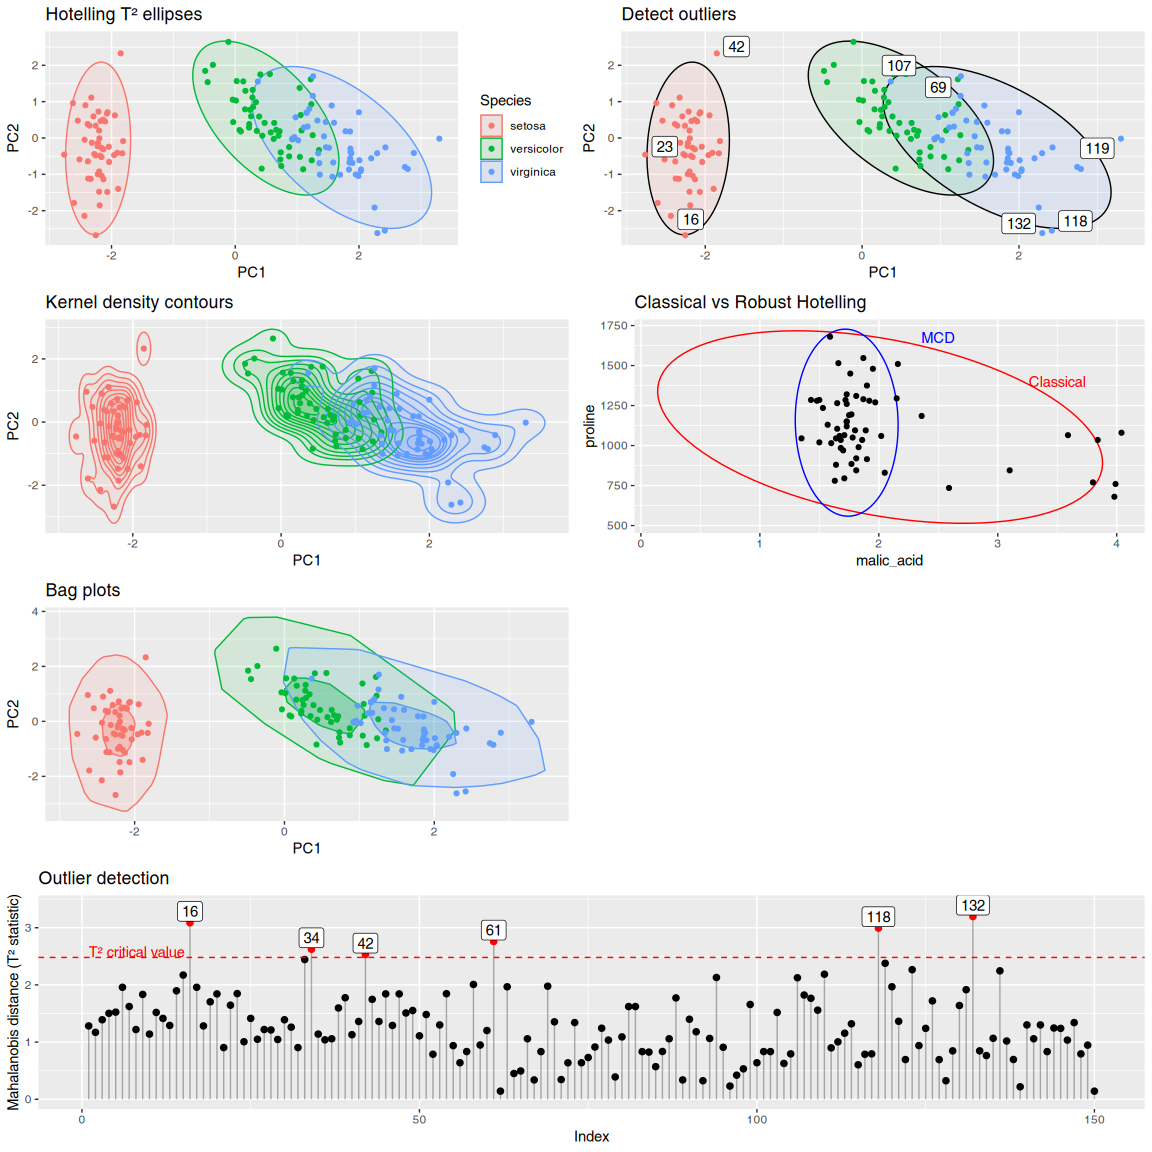
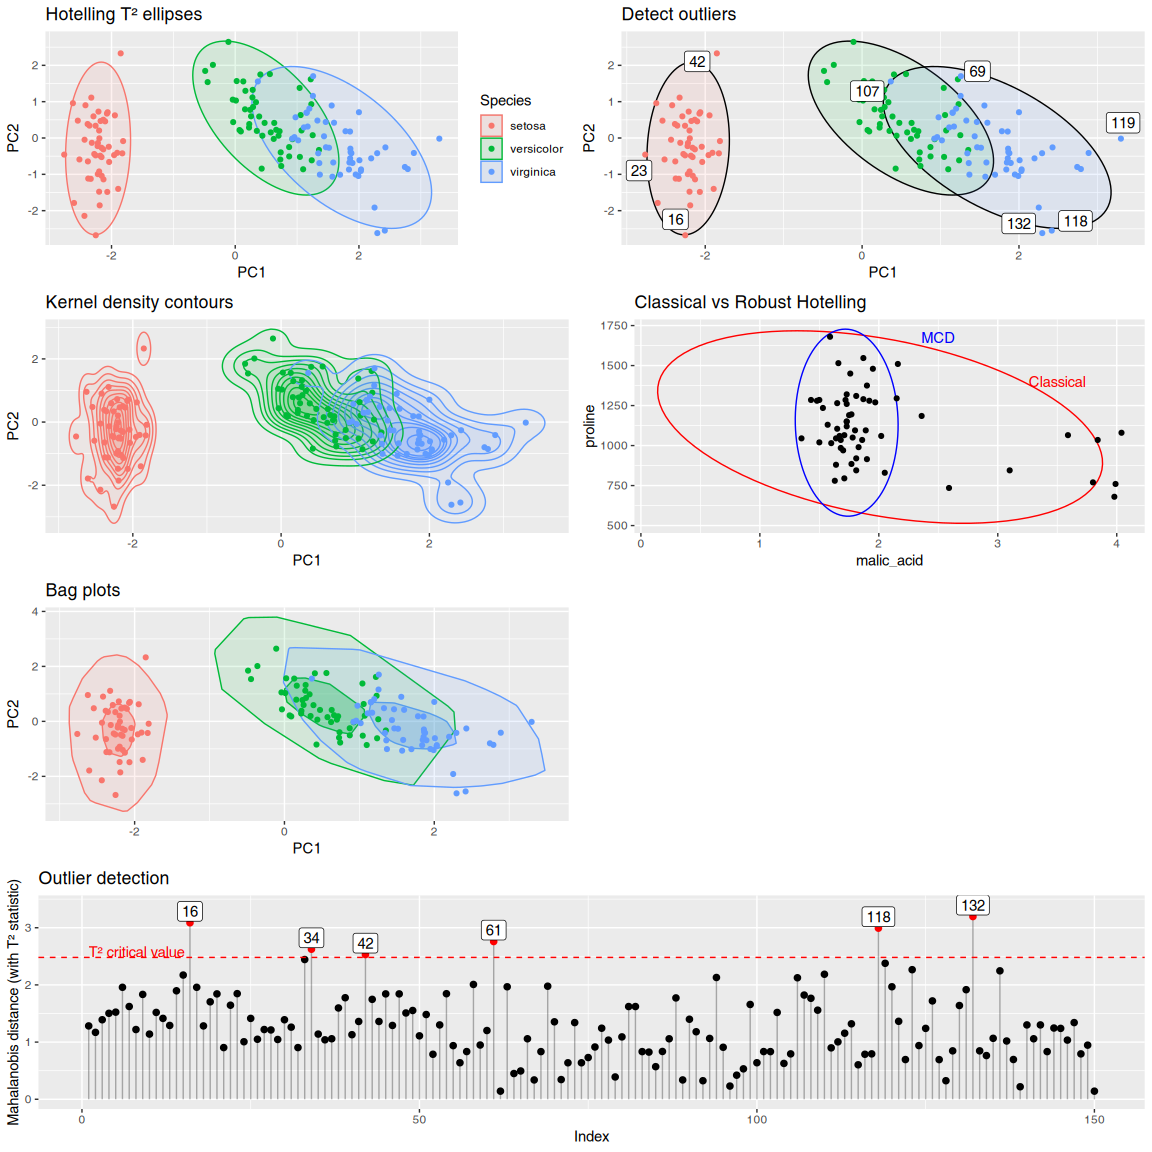
fixing checks and docs

diff --git a/README.md b/README.md
@@ -65,3 +65,13 @@ cowplot::plot_grid(p1, p2, ncol=2)
 ```
 
 <img src="man/figures/README-example-1.png" alt="" width="100%" style="display: block; margin: auto;" />
+
+## AI and other tools disclosure
+
+I used LLM modes to a) detect bugs, spelling errors, clerical mistakes
+and other deficiencies in the code and b) better understand the ggplot2
+specific code (especially `after_stat()`).
+
+Furthermore, I used [devtools](https://devtools.r-lib.org/),
+[checktor](https://github.com/coatless-rpkg/checktor) and
+[covr](https://covr.r-lib.org/).
